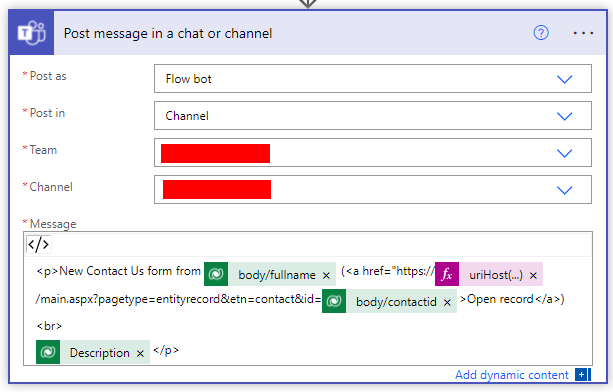
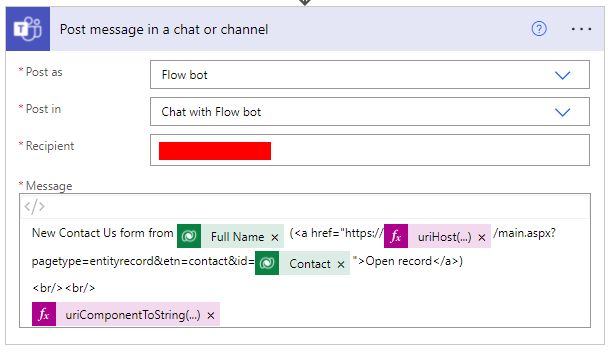
update Teams example

Changed region(s): [[0.0, 0.0, 1.0, 0.9972], [0.8707, 0.0623, 0.9018, 0.0935]]

diff --git a/README.md b/README.md
@@ -258,6 +258,8 @@ With this customization, when your Xperience contacts visit pages on your websit
 
 Using the magic of __Power Automate__, your team can be automatically notified of new Dynamics 365 contacts or activities when they are created. For example, if a visitor on your site fills out a "Contact Us" form requesting more information about your products, a new post can be created in your Teams "Sales" channel for your Sales team to follow up immediately.
 
+![Teams sample message](/Assets/teamsmessage.png)
+
 To accomplish this, first you need to synchronize the Kentico Xperience "Form submission" activity to Dynamics 365. You can follow [this example](#example-synchronizing-the-page-visit-activity) to create a new activity type in Dynamics 365 for form submissions. When creating custom columns in the table, add one called "Form name" to hold the code name of the Xperience form. The mapping logic in your `MapActivity` implementation could look something like this:
 
 ```cs
@@ -300,7 +302,8 @@ After adding the __Condition__ control, you will see two paths you can add more 
 ![Teams flow get contact](/Assets/teamsflowgetcontact.png)
 
 8. After that, add a Microsoft Teams __Post message in chat or channel__ action. Here, you can construct the body of the message using dynamic data from the activity (trigger) and the contact (from the previous step). In the sample code posted above, we set the form data to the Dynamics 365 activity's __description__ field, so we can include that in the body.  
-If you want to provide a direct link to the Dynamics 365 contact, you can use the approach described in [this article](https://d365demystified.com/2020/06/13/generate-dynamics-365-record-link-in-a-flow-using-cds-connector-power-automate/). In this example, we used the function `uriHost(body('Get_a_row_by_ID')?['@odata.id'])` to get the URL of the Dynamics 365 tenant. The finished message looks something like this:
+If you want to provide a direct link to the Dynamics 365 contact, you can use the approach described in [this article](https://d365demystified.com/2020/06/13/generate-dynamics-365-record-link-in-a-flow-using-cds-connector-power-automate/). In this example, we used the function `uriHost(body('Get_a_row_by_ID')?['@odata.id'])` to get the URL of the Dynamics 365 tenant. To replace the line breaks in the activity description for better Teams formatting, you can use `uriComponentToString(replace(uriComponent(triggerBody()['description']), '%0A', '<br/>'))`  
+The finished message looks something like this:
 
 ![Teams flow message body](/Assets/teamsflowmessagebody.png)
 
